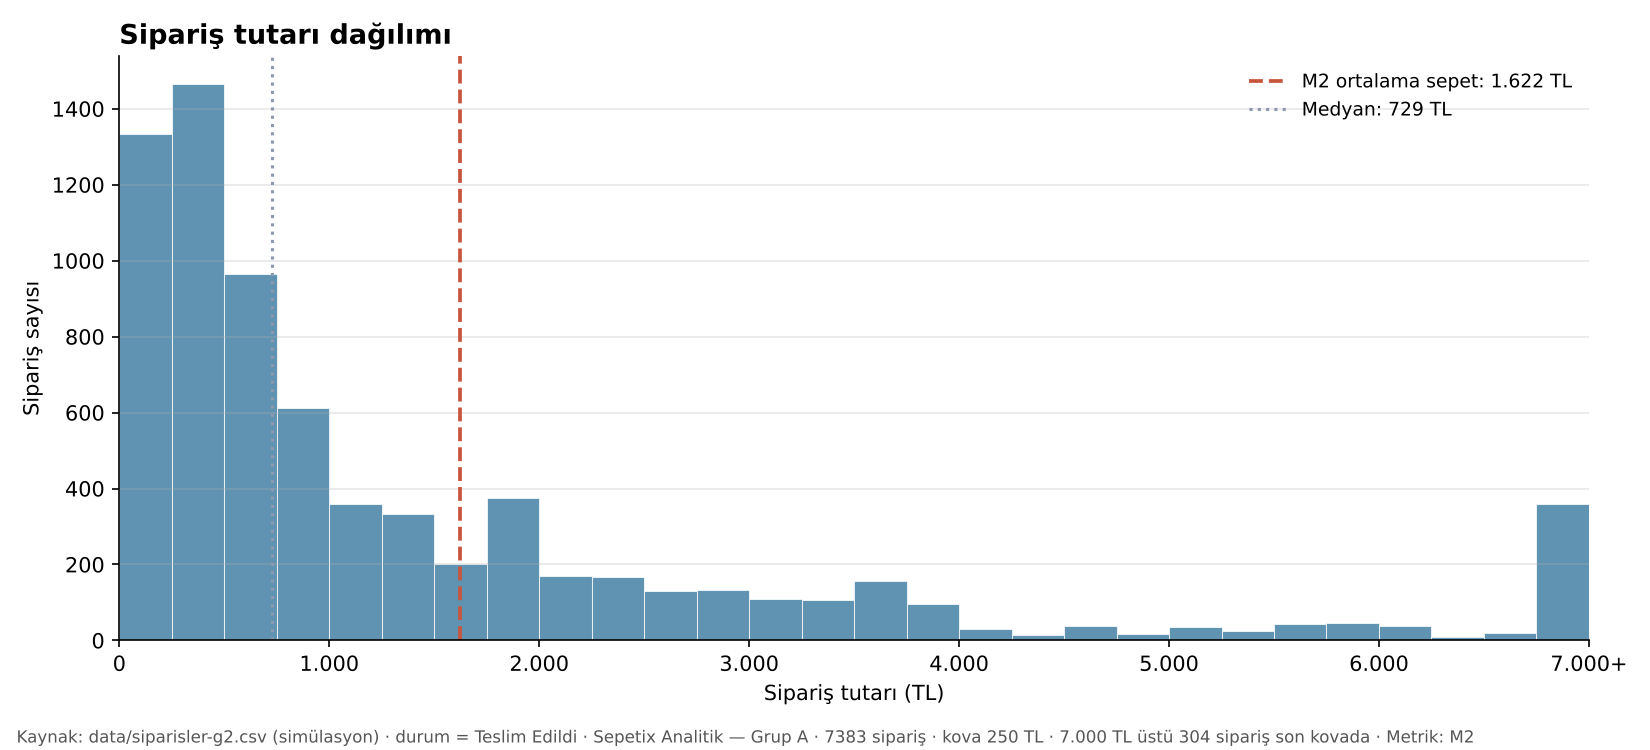
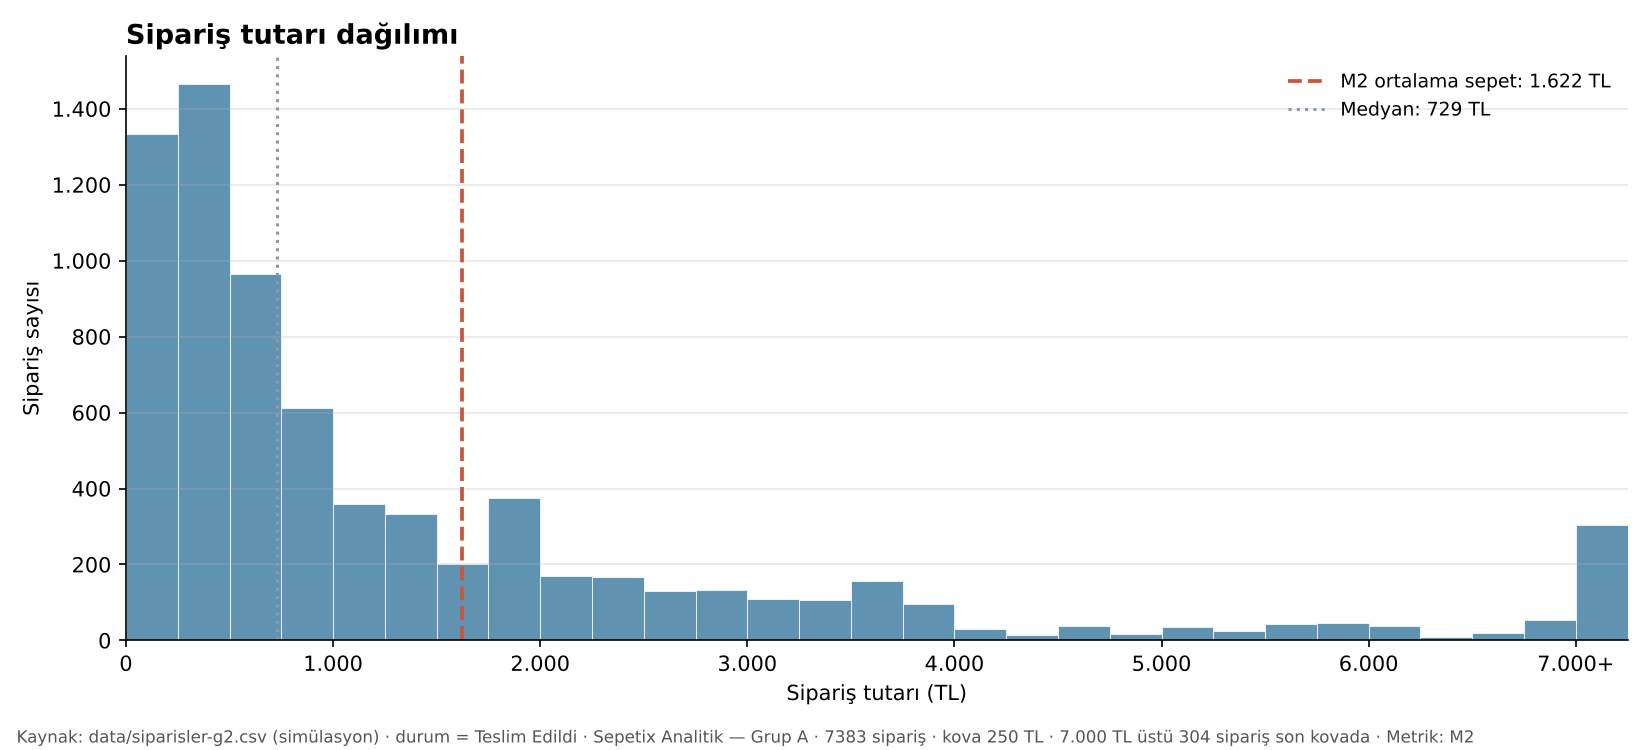
G2-gorsel: histogram tasma kovasi ayrildi (DQ incelemesi, PR #79)
Sema'nin tespiti: clip(upper=7000) ile tasan siparisler 7.000'e cekiliyordu
ama kovalar 7.000'de bitiyordu; tasanlar son normal kovaya (6.750-7.000)
dusuyordu. Cubuk 359 gosteriyordu (55 normal + 304 tasan), dipnot ise
"304 siparis son kovada" diyordu. Cubuk ile not celisiyordu.

- kenarlar bir kova uzatildi: [7.000, 7.250) yalnizca tasanlari aliyor
- set_xlim ust sinir + bir kova
- Son uc kova artik 19 / 55 / 304; dipnottaki sayiyla birebir

DQ'nun istege bagli iki notu da uygulandi:
- Histogramda y ekseni de Turkce binlik ayraci kullaniyor (1.400)
- Kaynak satiri okunan dosyanin adini yaziyor; KAYNAK sabiti kaynak(dosya)
  fonksiyonuna cevrildi, baska dosyayla calistirilinca da dogru kaliyor

Skill'e eklendi:
- Kova genisligi gerekcesi: Scott kurali bu veri icin 256 TL veriyor,
  250 TL okunabilir yuvarlama (28 kova + 1 tasma kovasi)
- Ust sinir gerekcesi: %95 dilimi 6.687 TL, sinir ustunde siparislerin %4,1'i
- "Ne zaman yeniden uretilir" bolumu: veri, sema, analiz veya hafta tanimi
  degisirse uc PNG yeniden uretilir; Gorev 1 grafikleri kapsam disi

Diger iki PNG degismedi. Iki calistirmada MD5 ayni, hata yonetimi calisiyor.

Claude-Session: https://claude.ai/code/session_01Cz7JaFKRMVdMDL4bgmUbEG

diff --git a/src/fe_gorsel.py b/src/fe_gorsel.py
@@ -43,7 +43,9 @@ SUTUN_KAMPANYA = "kampanya"
 GEREKLI_SUTUNLAR = (SUTUN_TARIH, SUTUN_TUTAR, SUTUN_KANAL, SUTUN_DURUM, SUTUN_KAMPANYA)
 DURUM_TESLIM = "Teslim Edildi"
 
-# Histogram: kuyruk uzun (en yüksek sipariş ~18.000 TL), son kova taşma kovasıdır.
+# Histogram: kuyruk uzun (en yüksek sipariş ~18.000 TL). Üst sınırın üstündeki
+# siparişler ayrı bir taşma kovasında ([HIST_UST_SINIR, +kova genişliği)) toplanır;
+# o kova normal siparişlerle karışmaz (DQ notu, PR #79).
 HIST_UST_SINIR = 7000
 HIST_KOVA_GENISLIGI = 250
 
@@ -54,7 +56,14 @@ AYLAR = ("Oca", "Şub", "Mar", "Nis", "May", "Haz", "Tem",
          "Ağu", "Eyl", "Eki", "Kas", "Ara")
 AYLAR_TAM = ("Ocak", "Şubat", "Mart", "Nisan", "Mayıs", "Haziran", "Temmuz",
              "Ağustos", "Eylül", "Ekim", "Kasım", "Aralık")
-KAYNAK = "Kaynak: data/siparisler-g2.csv (simülasyon) · durum = Teslim Edildi · Sepetix Analitik — Grup A"
+# Kaynak satırı okunan dosyanın adını yazar; başka dosyayla çalıştırılınca da doğru kalır
+# (DQ notu, PR #79).
+SIRKET = "Sepetix Analitik — Grup A"
+
+
+def kaynak(dosya):
+    """Grafiklerin altındaki kaynak satırı — okunan dosyanın adıyla."""
+    return f"Kaynak: {dosya} (simülasyon) · durum = {DURUM_TESLIM} · {SIRKET}"
 
 
 def bin_tl(x, _pos=None):
@@ -153,7 +162,7 @@ def donem_basligi(df):
             f"{AYLAR_TAM[son.month - 1]} {son.year}")
 
 
-def zaman_serisi(df, teslim, yol):
+def zaman_serisi(df, teslim, yol, dosya):
     """M3 — haftalık net ciro trendi; kampanya haftaları bant olarak işaretli."""
     h = haftalik(teslim)
     ort = h.mean()
@@ -191,7 +200,7 @@ def zaman_serisi(df, teslim, yol):
     ax.xaxis.set_major_formatter(mticker.FuncFormatter(ay_etiketi))
     ax.grid(axis="y", alpha=0.3)
     ax.legend(loc="lower right", frameon=False, fontsize=9, ncol=3)
-    fig.text(0.01, 0.01, f"{KAYNAK} · {len(h)} hafta, {len(teslim)} sipariş · Metrik: M3",
+    fig.text(0.01, 0.01, f"{kaynak(dosya)} · {len(h)} hafta, {len(teslim)} sipariş · Metrik: M3",
              fontsize=8, color="#555")
     fig.tight_layout(rect=(0, 0.03, 1, 1))
     fig.savefig(yol, dpi=DPI)
@@ -199,7 +208,7 @@ def zaman_serisi(df, teslim, yol):
     return len(h)
 
 
-def kirilim(teslim, yol):
+def kirilim(teslim, yol, dosya):
     """M4 — kanal bazlı net ciro ve toplam içindeki payı."""
     ciro = teslim[SUTUN_TUTAR].sum()
     k = teslim.groupby(SUTUN_KANAL)[SUTUN_TUTAR].sum().sort_values()
@@ -218,7 +227,7 @@ def kirilim(teslim, yol):
     ax.xaxis.set_major_formatter(mticker.FuncFormatter(bin_tl))
     ax.set_xlim(0, k.max() * 1.35)
     ax.grid(axis="x", alpha=0.3)
-    fig.text(0.01, 0.01, f"{KAYNAK} · Toplam net ciro {tl(ciro)} · Metrik: M4",
+    fig.text(0.01, 0.01, f"{kaynak(dosya)} · Toplam net ciro {tl(ciro)} · Metrik: M4",
              fontsize=8, color="#555")
     fig.tight_layout(rect=(0, 0.04, 1, 1))
     fig.savefig(yol, dpi=DPI)
@@ -226,15 +235,17 @@ def kirilim(teslim, yol):
     return len(k)
 
 
-def dagilim(teslim, yol):
+def dagilim(teslim, yol, dosya):
     """toplam_tutar histogramı; M2 (ortalama sepet) dikey çizgiyle, son kova taşma kovası."""
     tutar = teslim[SUTUN_TUTAR]
     ortalama, medyan = tutar.mean(), tutar.median()
     tasan = int((tutar > HIST_UST_SINIR).sum())
 
-    # Üst sınırın üstündeki siparişler son kovada toplanır (DQ notu: kuyruk çok uzun)
+    # Üst sınırın üstündeki siparişler AYRI bir taşma kovasında toplanır: kenarlar
+    # bir kova daha uzatılır, böylece [HIST_UST_SINIR, +250) yalnızca taşanları alır
+    # ve son normal kova (6.750–7.000) onlarla karışmaz (DQ notu, PR #79).
     kirpik = tutar.clip(upper=HIST_UST_SINIR)
-    kenarlar = np.arange(0, HIST_UST_SINIR + HIST_KOVA_GENISLIGI, HIST_KOVA_GENISLIGI)
+    kenarlar = np.arange(0, HIST_UST_SINIR + 2 * HIST_KOVA_GENISLIGI, HIST_KOVA_GENISLIGI)
 
     fig, ax = plt.subplots(figsize=(11, 5))
     ax.hist(kirpik, bins=kenarlar, color=RENK_ANA, alpha=0.75, edgecolor="white", lw=0.5)
@@ -246,15 +257,17 @@ def dagilim(teslim, yol):
     ax.set_title("Sipariş tutarı dağılımı")
     ax.set_xlabel("Sipariş tutarı (TL)")
     ax.set_ylabel("Sipariş sayısı")
-    ax.set_xlim(0, HIST_UST_SINIR)
+    ax.set_xlim(0, HIST_UST_SINIR + HIST_KOVA_GENISLIGI)
     ax.xaxis.set_major_locator(mticker.MultipleLocator(1000))
     ax.xaxis.set_major_formatter(
         mticker.FuncFormatter(lambda x, _p: f"{x:,.0f}".replace(",", ".")
                               + ("+" if x >= HIST_UST_SINIR else "")))
+    ax.yaxis.set_major_formatter(
+        mticker.FuncFormatter(lambda y, _p: f"{y:,.0f}".replace(",", ".")))
     ax.grid(axis="y", alpha=0.3)
     ax.legend(loc="upper right", frameon=False, fontsize=9)
     fig.text(0.01, 0.01,
-             f"{KAYNAK} · {len(tutar)} sipariş · kova {HIST_KOVA_GENISLIGI} TL · "
+             f"{kaynak(dosya)} · {len(tutar)} sipariş · kova {HIST_KOVA_GENISLIGI} TL · "
              f"{HIST_UST_SINIR:,}".replace(",", ".")
              + f" TL üstü {tasan} sipariş son kovada · Metrik: M2",
              fontsize=8, color="#555")
@@ -282,9 +295,9 @@ def main():
     kr = os.path.join(a.klasor, KIRILIM)
     dg = os.path.join(a.klasor, DAGILIM)
 
-    hafta = zaman_serisi(df, teslim, zs)
-    kanal = kirilim(teslim, kr)
-    tasan = dagilim(teslim, dg)
+    hafta = zaman_serisi(df, teslim, zs, a.dosya)
+    kanal = kirilim(teslim, kr, a.dosya)
+    tasan = dagilim(teslim, dg, a.dosya)
 
     print(f"Okunan: {a.dosya} — {len(df)} satır, {len(df.columns)} sütun")
     print(f"Filtre: {SUTUN_DURUM} == \"{DURUM_TESLIM}\" → {len(teslim)} satır")

diff --git a/skills/fe-gorsel/SKILL.md b/skills/fe-gorsel/SKILL.md
@@ -49,6 +49,19 @@ Bunlar `#63`'ün kabul kriterleriyle birebir örtüşür; biri sağlanmazsa tesl
 7. **PR aç (Hafta 6):** başlık `G2 grafik seti`, açıklamaya `Closes #63` + prompt özeti; **Reviewers: DQ**. DQ'nun yorumlarına PR üzerinden cevap ver, düzeltmeleri aynı dala commit'le, onay sonrası merge düğmesine PR sahibi basar.
 8. **Kanıt yorumu yaz (#63):** commit hash + üç dosya adı + hangi metrikleri gösterdikleri + "Üretim: fe-gorsel skill'i ile, \<araç\>". Ardından Issue'yu kapat ve panoda Done'a taşı.
 
+## Ne zaman yeniden üretilir
+
+Grafikler veriden türetilir; aşağıdakilerden biri değişirse üç PNG yeniden üretilip commit'lenir:
+
+| Değişen | Neden etkiler |
+|---|---|
+| `data/siparisler-g2.csv` (BE yeni veri üretti) | Tüm sayılar değişir |
+| `docs/veri-sozlugu.md` (alan adı, değer listesi, parametre) | Sütun adları ve kampanya dönemleri betikte veriden okunuyor; şema değişirse çıktı da değişir |
+| `docs/analiz-g2.md` (metrik tanımı güncellendi) | Grafikteki sayılar analizle birebir tutmak zorunda |
+| Hafta tanımı (`W-MON`) DQ tarafında değişti | Zaman serisi kırılımı DQ'nunkiyle aynı olmalı |
+
+Yeniden üretimden sonra adım 5'teki kontroller tekrarlanır ve kanıt yorumuna yeni commit hash'i yazılır. Görev 1 grafikleri (`visuals/haftalik-ciro.png`, `visuals/kategori-ciro-payi.png`) bu kapsamda değildir; `gorev1-final` sürümünde mühürlüdür, yeniden üretilmez.
+
 ## Reddetme durumları
 
 Aşağıdaki isteklerde üretim **yapılmaz**; sebebi yazılıp ilgili role yönlendirilir.
@@ -96,6 +109,9 @@ Giriş:  "Grafiğe müşterilerin gerçek adlarını da ekle."
 - Sütun adları betiğin başında sabit olarak tutulur (`SUTUN_TARIH`, `SUTUN_TUTAR`, `SUTUN_KANAL`, `SUTUN_DURUM`); şema değişirse tek yerden güncellenir.
 - Kampanya dönemleri ve grafik başlığındaki tarih aralığı **veriden türetilir** (`kampanya == 1` olan ardışık günler; `siparis_tarihi` en küçük/en büyük). Simülasyon parametresi değişirse grafik de değişir; tarih elle yazılmaz (DQ notu, #63).
 - Dosya adları sabitlerde (`ZAMAN_SERISI`, `KIRILIM`, `DAGILIM`).
+- **Histogram kova genişliği (`HIST_KOVA_GENISLIGI = 250` TL):** Scott kuralı (`3,49 × standart sapma / ⁿ√n`) bu veri için 256 TL veriyor; 250 TL okunabilir bir yuvarlama. Sonuç 0–7.000 TL aralığında 28 kova artı bir taşma kovası. Daha dar kova (ör. Freedman-Diaconis'in önerdiği 154 TL) tepeyi dişli gösterir, daha geniş kova (Sturges: 502 TL) medyan ile ortalama arasındaki farkı yutar.
+- **Histogram üst sınırı (`HIST_UST_SINIR = 7000` TL):** %95 dilimi 6.687 TL; bu sınırın üstünde siparişlerin yalnızca %4,1'i kalıyor. Eksen en uç değere (~18.000 TL) kadar uzatılırsa çubuklar sola sıkışır.
+- **Taşma kovası ayrı durur:** kenarlar bir kova daha uzatılır, böylece sınırın üstündeki siparişler `[7.000, 7.250)` kovasında toplanır ve son normal kovayla (6.750–7.000) karışmaz. Karışırsa çubuk ile dipnottaki sayı çelişir.
 - **Hata yönetimi:** veri dosyası yoksa, beklenen sütunlar eksikse veya filtre sonrası satır kalmazsa betik çökmez; `ValueError` ile neyin eksik olduğunu söyleyen bir mesaj verir ve PNG yazmaz.
 
 ## Kullanılan dosyalar
